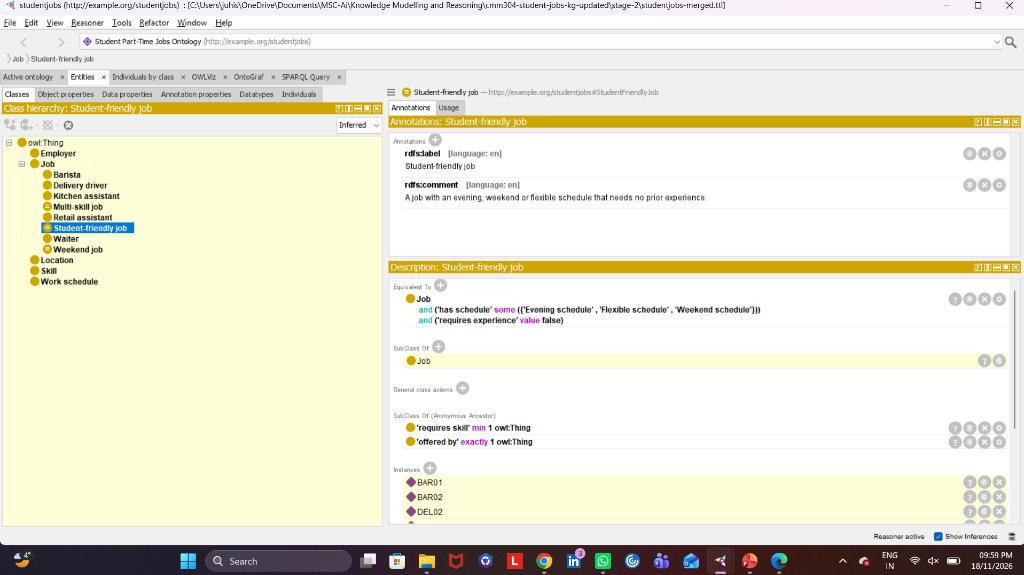
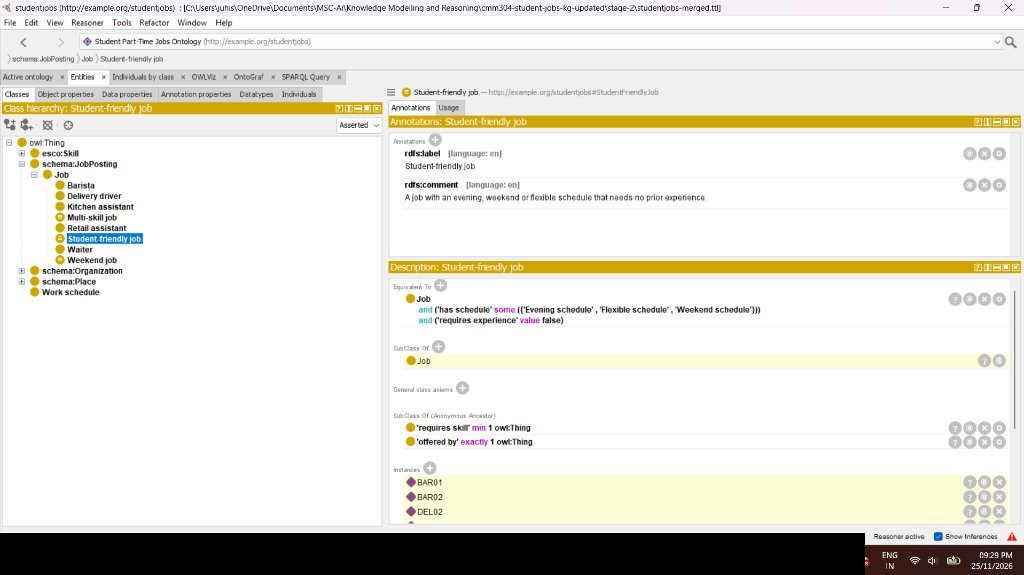
Add files via upload

diff --git a/readme.md b/readme.md
@@ -7,9 +7,9 @@
 
 ---
 
-> *GenAI Acknowledgment:* This assessment was prepared with assistance from AI tools (Claude, Antigravity, etc.). The AI usage is documented in the reflective statement (`reflective-statement.md`).
+> *GenAI Acknowledgment (Category 5: Full AI):* I acknowledge the use of Anthropic Claude (https://claude.ai) and Google Antigravity / Gemini to assist in completing this assessment — including conceptual brainstorming, formatting and editing Markdown reports, generating SVG architecture/conceptual diagrams, scaffolding OWL/Turtle syntax, and drafting Python/SPARQL/HTML code. All AI usage and human verification are transparently documented in [`reflective-statement.md`](reflective-statement.md).
 
-##  Executive Summary
+## 📌 Executive Summary
 
 This repository contains the complete, end-to-end coursework submission for **CMM304 Knowledge Modelling and Reasoning**. Grounded in a **Middle-Out** ontology engineering methodology, the project models student employment opportunities across Scotland (Aberdeen, Dundee, Edinburgh, and Glasgow), capturing vacancies, required skills/competencies, employer profiles, recurring shift schedules, and hourly pay.
 
@@ -34,6 +34,8 @@ flowchart TD
     A -->|"stage-4/app.py"| G["Flask Web Application<br/>(Interactive CRUD & Search)"]
     G -->|"Automated ETL Trigger"| B
 ```
+
+---
 
 ##  Repository Organization
 
@@ -109,7 +111,7 @@ Open `http://127.0.0.1:5000` in a browser.
 
 ---
 
-## Competency Questions Summary
+## 🎯 Competency Questions Summary
 
 | ID | Natural Language Competency Question | Type | Query File |
 |:---|:---|:---|:---|
@@ -129,7 +131,7 @@ Open `http://127.0.0.1:5000` in a browser.
 
 ---
 
-##  Metadata & Licence
+## 📜 Metadata & Licence
 * **Ontology IRI:** <http://example.org/studentjobs>
 * **Author:** Juhi Shah (Student ID: 2617188)
 * **Licence:** Creative Commons Attribution 4.0 International ([CC BY 4.0](https://creativecommons.org/licenses/by/4.0/))

diff --git a/reflective-statement.md b/reflective-statement.md
@@ -1,7 +1,13 @@
 # Reflective Statement & AI Audit Log
 
 ## GenAI Acknowledgement
-I acknowledge the use of Anthropic Claude (https://claude.ai) and Google Antigravity to assist in this assessment. AI tools were used for brainstorming domain concepts, scaffolding ontology syntax, drafting Python scripts, and reviewing SPARQL queries. All design decisions, reasoner validations in Protégé, and final code reviews were conducted independently.
+I acknowledge the use of Anthropic Claude (https://claude.ai) and Google Antigravity / Gemini (https://gemini.google.com) to help me complete this assessment in the following ways:
+- To help generate domain ideas, refine competency questions, and structure the Markdown reports.
+- To help format, proofread, and improve the wording of the Markdown documentation (`readme.md` and stage reports).
+- To help generate visual SVG diagrams (`system-workflow-diagram.svg`, `knowledge-graph-diagram.svg`, `ontology-diagram.svg`).
+- To help scaffold OWL 2 / Turtle syntax, Python RDFlib / Flask code, TailwindCSS HTML templates, and SPARQL queries.
+
+All conceptual modelling decisions, Protégé HermiT reasoner validations, SPARQL query verification, and final code reviews were conducted independently.
 
 ---
 
